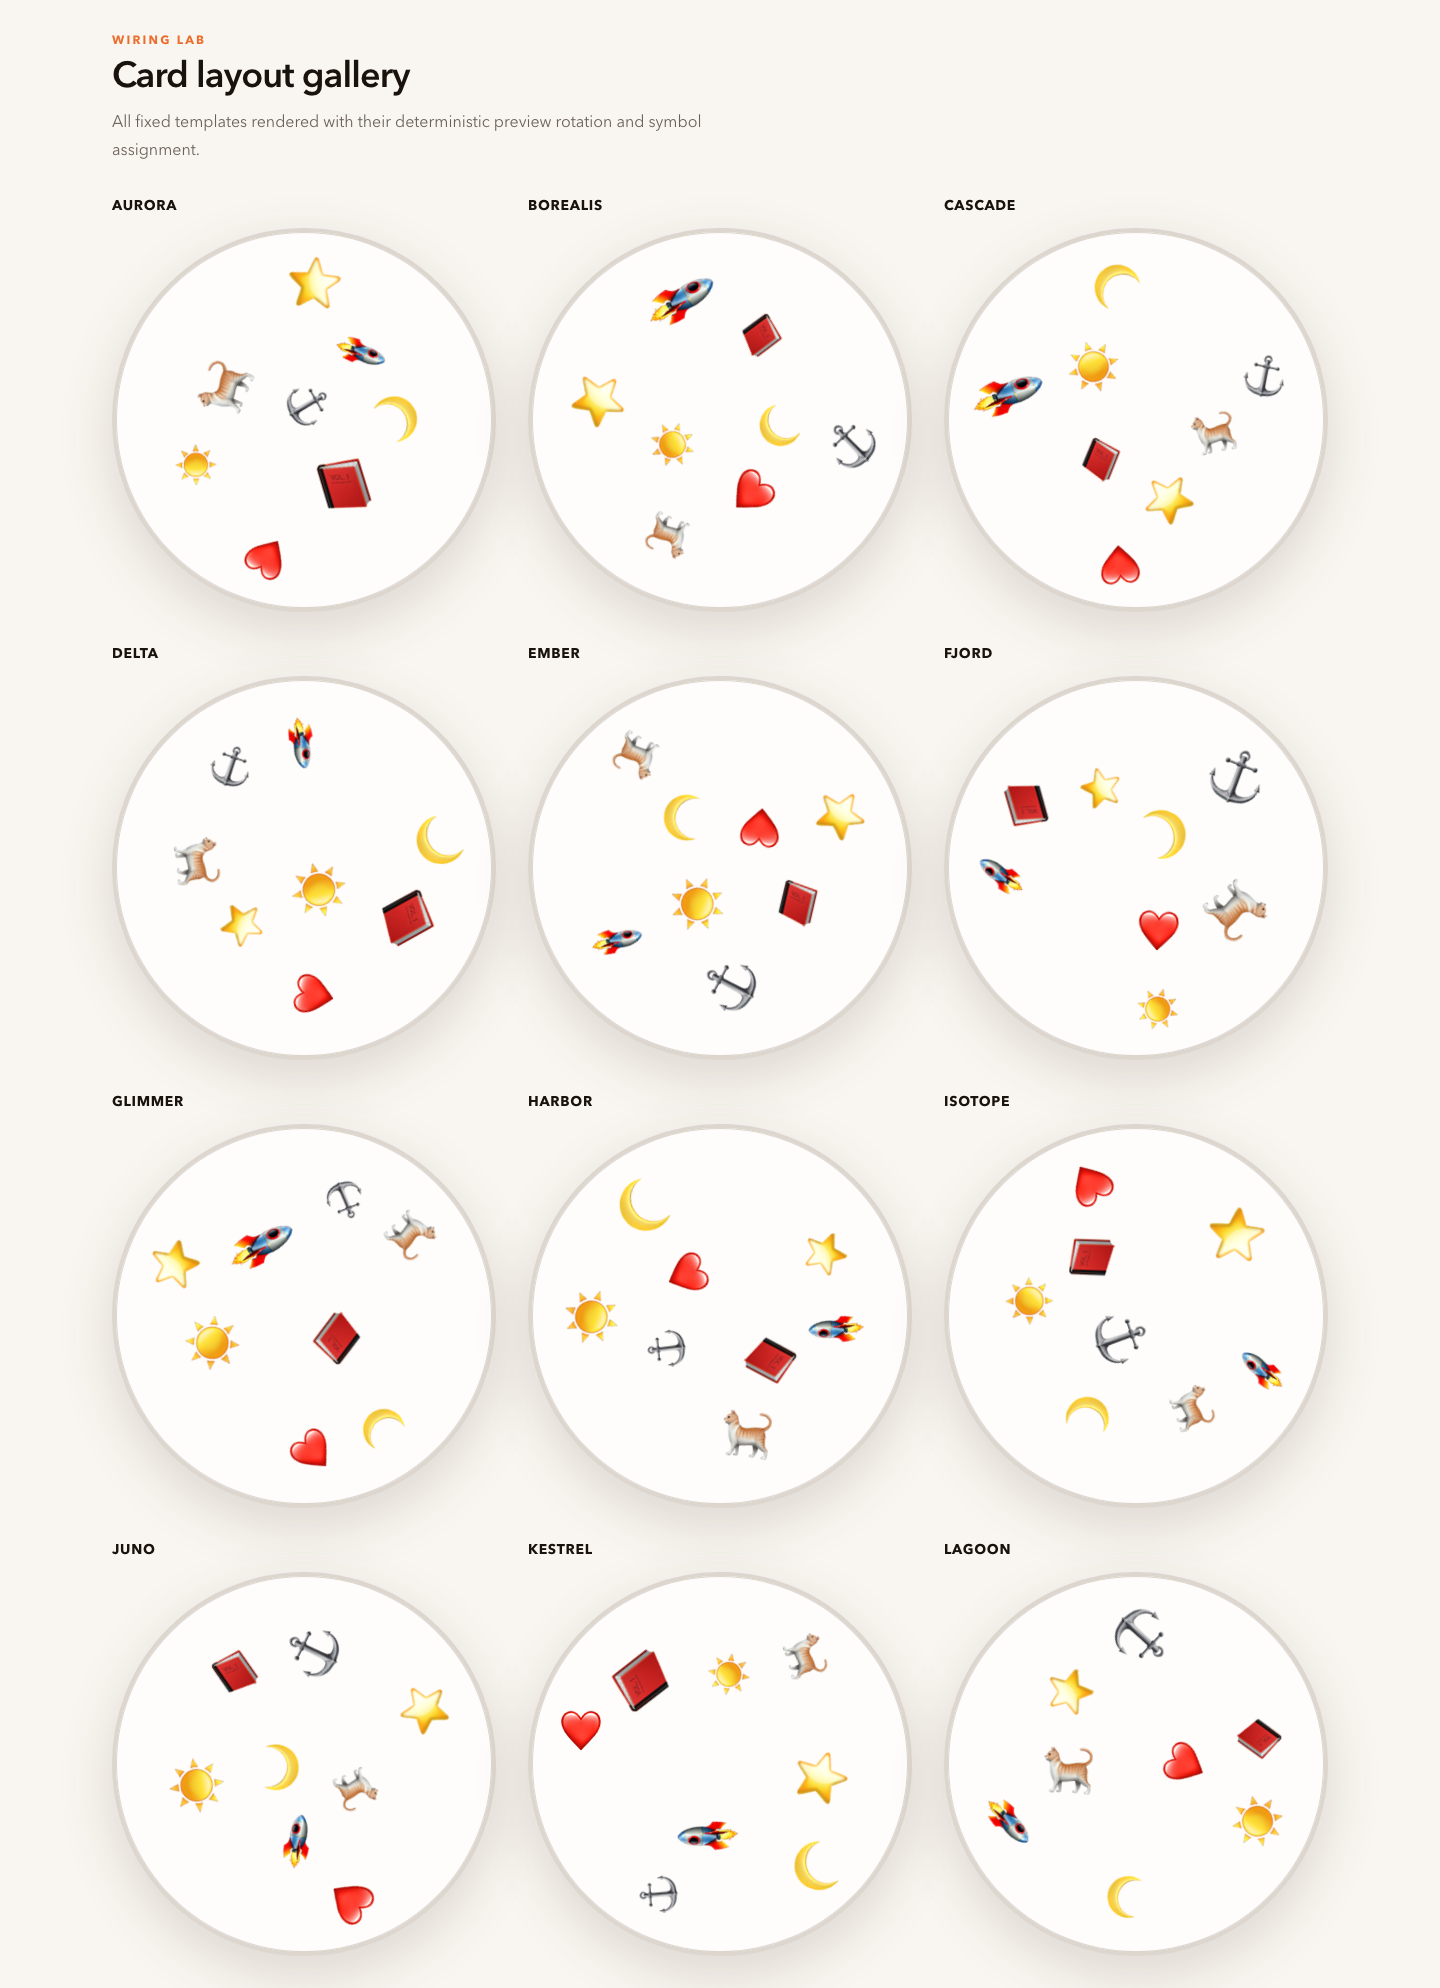
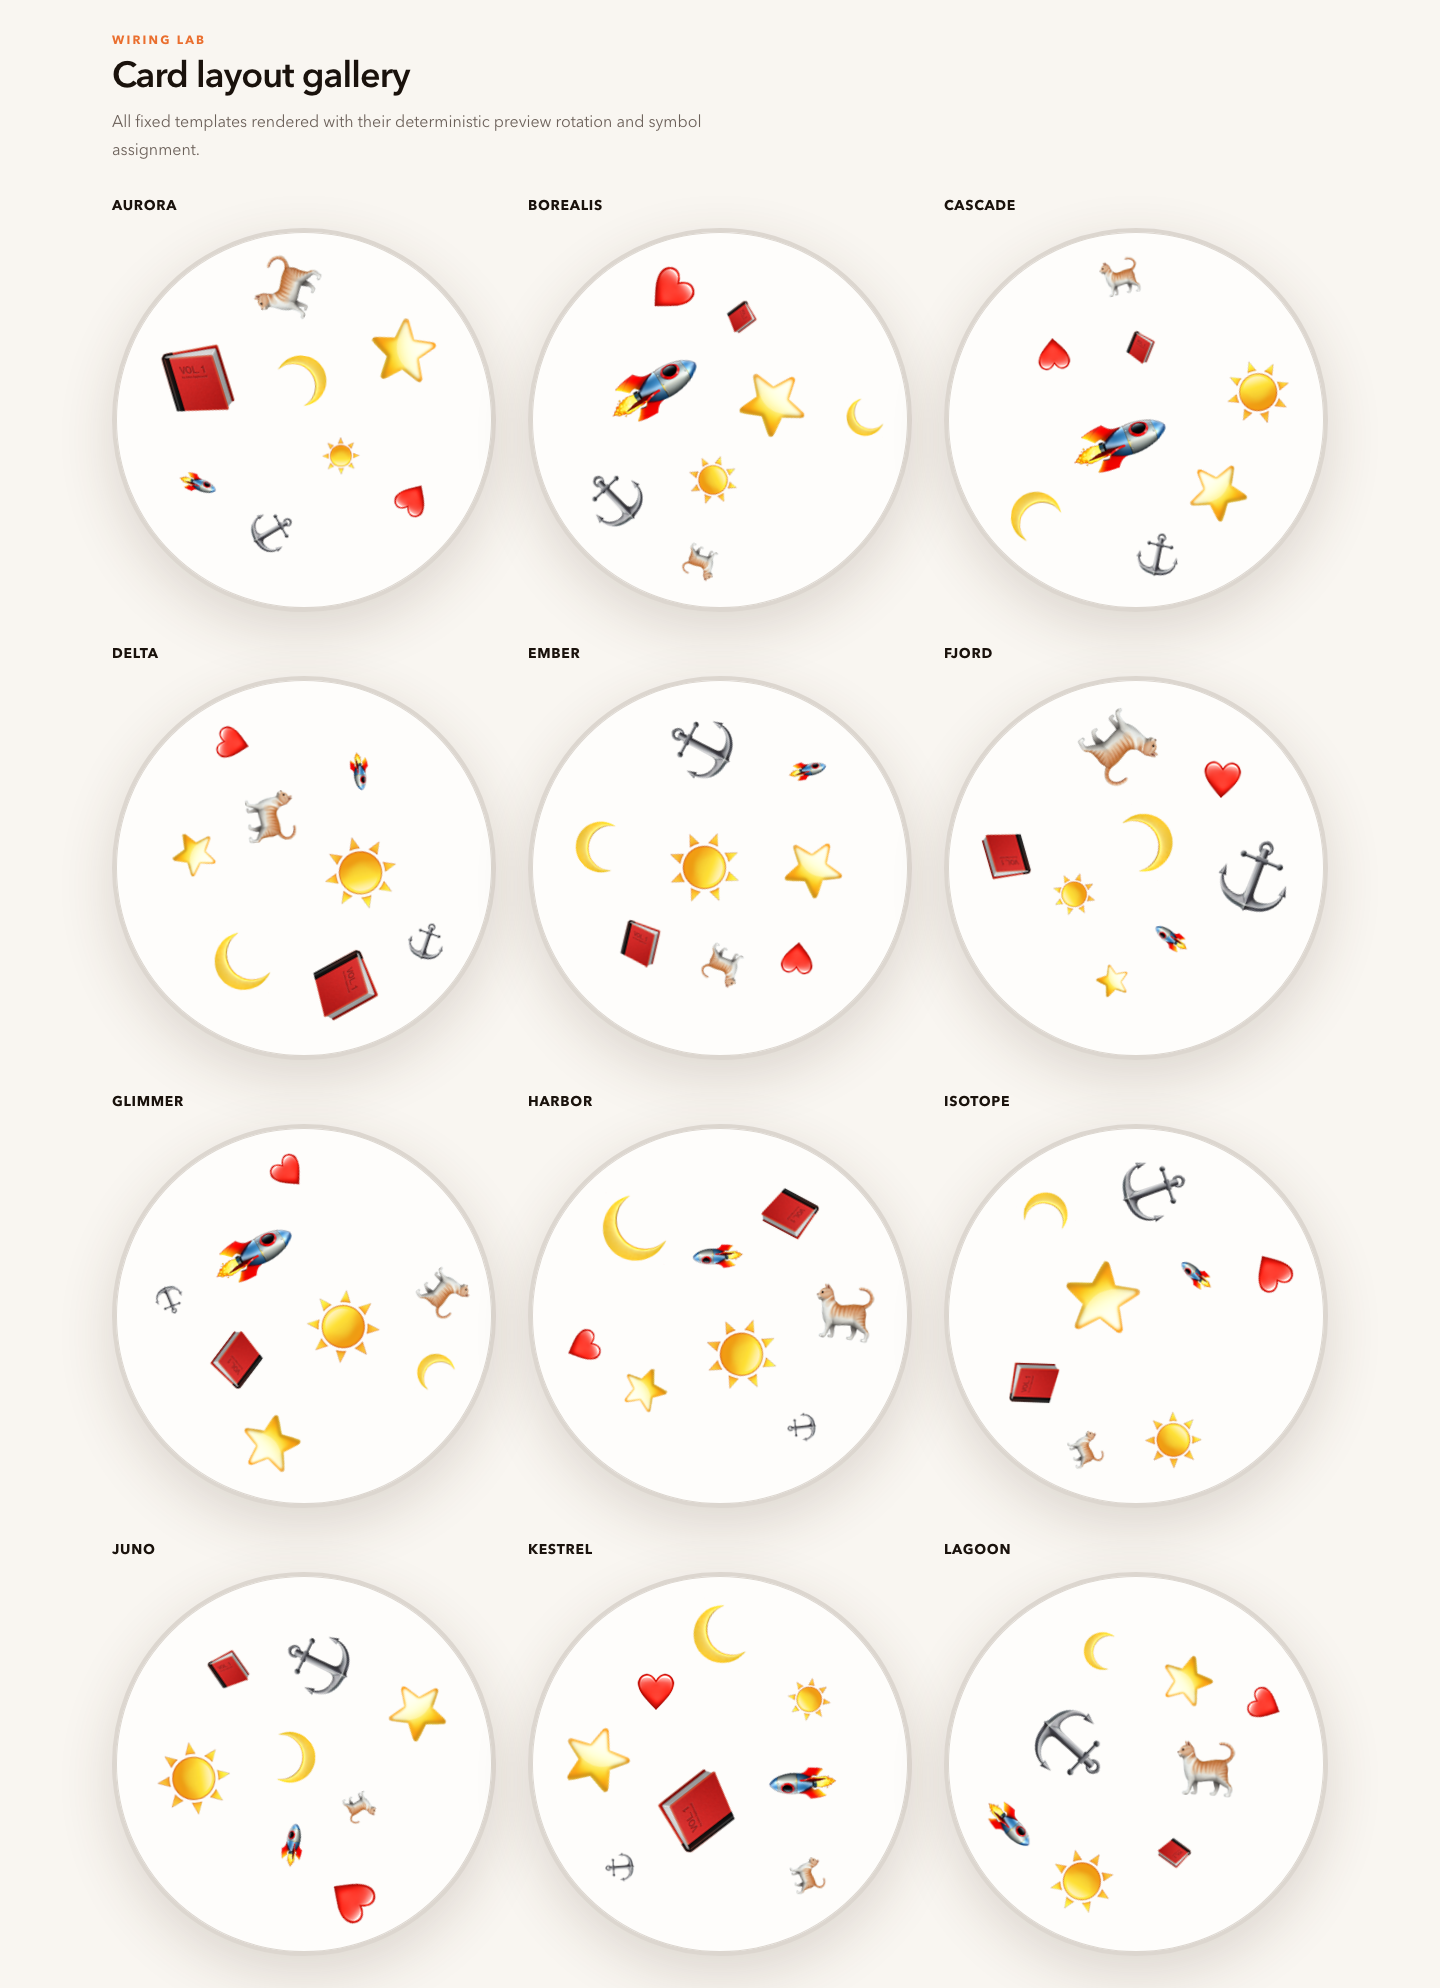
Rebalance card layout templates

diff --git a/lib/card-layout.ts b/lib/card-layout.ts
@@ -2,6 +2,8 @@ export const CARD_LAYOUT_EDGE_PADDING = 0.055
 export const CARD_LAYOUT_SLOT_GAP = 0.04
 export const MIN_CARD_DIAMETER_PX = 288
 export const MIN_SYMBOL_TARGET_PX = 48
+export const MIN_SYMBOL_SIZE = 0.076
+export const MAX_SYMBOL_SIZE = 0.2
 
 export type CardLayoutSlot = Readonly<{
   x: number
@@ -43,124 +45,124 @@ export type CardLayoutPlan = Readonly<{
  */
 export const CARD_LAYOUT_TEMPLATES: readonly CardLayoutTemplate[] = [
   template('aurora', [
-    [0.027, -0.429, 0.15, -163, 0.227],
-    [-0.444, 0.566, 0.14, -69, 0.211],
-    [0.248, 0.362, 0.129, 147, 0.194],
-    [-0.413, -0.277, 0.122, 134, 0.184],
-    [-0.046, 0.059, 0.115, -86, 0.173],
-    [0.601, 0.135, 0.113, 33, 0.17],
-    [0.56, -0.49, 0.108, 67, 0.17],
-    [-0.437, 0.131, 0.103, -82, 0.17],
+    [0.357, 0.461, 0.2, -163, 0.302],
+    [-0.627, 0.008, 0.175, -69, 0.265],
+    [-0.319, 0.618, 0.155, 147, 0.234],
+    [-0.121, 0.166, 0.135, 134, 0.204],
+    [0.477, -0.392, 0.118, -86, 0.178],
+    [-0.063, -0.259, 0.102, 33, 0.17],
+    [-0.253, -0.667, 0.088, 67, 0.17],
+    [0.664, 0.033, 0.076, -82, 0.17],
   ]),
   template('borealis', [
-    [-0.654, -0.037, 0.15, -56, 0.227],
-    [-0.338, 0.563, 0.14, -28, 0.211],
-    [0.397, -0.609, 0.129, -112, 0.194],
-    [0.024, 0.295, 0.122, -5, 0.184],
-    [0.429, 0.006, 0.115, -22, 0.173],
-    [0.142, -0.271, 0.113, 26, 0.17],
-    [0.461, 0.477, 0.108, 136, 0.17],
-    [-0.33, -0.353, 0.103, -15, 0.17],
+    [-0.269, 0.277, 0.2, -56, 0.302],
+    [0.028, -0.285, 0.175, -28, 0.265],
+    [0.193, 0.668, 0.155, -112, 0.234],
+    [0.282, 0.173, 0.135, -5, 0.204],
+    [-0.729, 0.001, 0.118, -22, 0.178],
+    [0.271, -0.71, 0.102, 26, 0.17],
+    [0.663, 0.372, 0.088, 136, 0.17],
+    [-0.461, -0.301, 0.076, -15, 0.17],
   ]),
   template('cascade', [
-    [-0.54, -0.449, 0.15, 52, 0.227],
-    [-0.055, -0.35, 0.14, 13, 0.211],
-    [-0.06, 0.462, 0.129, -12, 0.194],
-    [0.274, -0.675, 0.122, -144, 0.184],
-    [0.695, 0.153, 0.115, 42, 0.173],
-    [0.318, 0.28, 0.113, 19, 0.17],
-    [-0.452, 0.611, 0.108, -155, 0.17],
-    [-0.281, 0.1, 0.103, 52, 0.17],
+    [-0.153, 0.075, 0.2, 52, 0.302],
+    [0.629, 0.218, 0.175, 13, 0.265],
+    [0.19, 0.558, 0.155, -12, 0.234],
+    [-0.708, 0.162, 0.135, -144, 0.204],
+    [-0.263, 0.687, 0.118, 42, 0.178],
+    [0.303, -0.697, 0.102, 19, 0.17],
+    [-0.199, -0.53, 0.088, -155, 0.17],
+    [0.202, -0.315, 0.076, 52, 0.17],
   ]),
   template('delta', [
-    [0.086, 0.088, 0.15, 159, 0.227],
-    [0.563, 0.208, 0.14, 54, 0.211],
-    [0.686, -0.235, 0.129, 89, 0.194],
-    [-0.578, 0.037, 0.122, 77, 0.184],
-    [-0.295, 0.336, 0.115, 106, 0.173],
-    [-0.454, -0.471, 0.113, 12, 0.17],
-    [0.151, 0.663, 0.108, -86, 0.17],
-    [-0.105, -0.663, 0.103, 119, 0.17],
+    [0.293, -0.029, 0.2, 159, 0.302],
+    [0.264, 0.611, 0.175, 54, 0.265],
+    [-0.284, 0.532, 0.155, 89, 0.234],
+    [-0.225, -0.248, 0.135, 77, 0.204],
+    [-0.589, -0.005, 0.118, 106, 0.178],
+    [0.691, 0.316, 0.102, 12, 0.17],
+    [-0.448, -0.614, 0.088, -86, 0.17],
+    [0.227, -0.553, 0.076, 119, 0.17],
   ]),
   template('ember', [
-    [0.056, -0.224, 0.15, -92, 0.227],
-    [-0.309, -0.555, 0.14, 95, 0.211],
-    [-0.478, 0.499, 0.129, -170, 0.194],
-    [0.281, 0.183, 0.122, -62, 0.184],
-    [-0.457, -0.025, 0.115, 170, 0.173],
-    [0.636, 0.385, 0.113, 5, 0.17],
-    [-0.113, 0.292, 0.108, -17, 0.17],
-    [0.354, -0.583, 0.103, -173, 0.17],
+    [0.097, -0.028, 0.2, -92, 0.302],
+    [0.319, 0.553, 0.175, 95, 0.265],
+    [-0.458, 0.18, 0.155, -170, 0.234],
+    [0.647, -0.139, 0.135, -62, 0.204],
+    [0.233, -0.546, 0.118, 170, 0.178],
+    [-0.222, -0.47, 0.102, 5, 0.17],
+    [-0.564, -0.271, 0.088, -17, 0.17],
+    [-0.222, 0.652, 0.076, -173, 0.17],
   ]),
   template('fjord', [
-    [0.475, -0.518, 0.15, 15, 0.227],
-    [0.552, 0.159, 0.14, 136, 0.211],
-    [0.135, -0.186, 0.129, -70, 0.194],
-    [-0.624, -0.291, 0.122, 158, 0.184],
-    [0.205, 0.729, 0.115, -125, 0.173],
-    [0.154, 0.335, 0.113, -2, 0.17],
-    [-0.229, -0.395, 0.108, 52, 0.17],
-    [-0.699, 0.111, 0.103, -106, 0.17],
+    [0.628, 0.002, 0.2, 15, 0.302],
+    [-0.161, -0.646, 0.175, 136, 0.265],
+    [0.052, -0.134, 0.155, -70, 0.234],
+    [-0.699, -0.016, 0.135, 158, 0.204],
+    [-0.303, 0.171, 0.118, -125, 0.178],
+    [0.409, -0.505, 0.102, -2, 0.17],
+    [-0.062, 0.615, 0.088, 52, 0.17],
+    [0.234, 0.353, 0.076, -106, 0.17],
   ]),
   template('glimmer', [
-    [0.413, -0.289, 0.15, 123, 0.227],
-    [0.325, 0.28, 0.14, 177, 0.211],
-    [0.733, 0.066, 0.129, 31, 0.194],
-    [-0.212, -0.041, 0.122, 20, 0.184],
-    [-0.413, 0.586, 0.115, -61, 0.173],
-    [-0.578, -0.436, 0.113, -9, 0.17],
-    [-0.268, -0.681, 0.108, 121, 0.17],
-    [-0.022, 0.669, 0.103, -39, 0.17],
+    [-0.234, -0.005, 0.2, 123, 0.302],
+    [0.352, 0.215, 0.175, 177, 0.265],
+    [-0.035, -0.695, 0.155, 31, 0.234],
+    [0.263, -0.301, 0.135, 20, 0.204],
+    [-0.67, 0.341, 0.118, -61, 0.178],
+    [-0.756, -0.073, 0.102, -9, 0.17],
+    [0.294, 0.701, 0.088, 121, 0.17],
+    [0.709, -0.12, 0.076, -39, 0.17],
   ]),
   template('harbor', [
-    [0.385, -0.588, 0.15, -128, 0.227],
-    [0.719, -0.022, 0.14, -141, 0.211],
-    [-0.615, -0.236, 0.129, 131, 0.194],
-    [-0.327, 0.088, 0.122, -119, 0.184],
-    [-0.027, 0.655, 0.115, 3, 0.173],
-    [-0.391, 0.495, 0.113, -16, 0.17],
-    [0.284, -0.043, 0.108, -170, 0.17],
-    [0.003, -0.321, 0.103, 27, 0.17],
+    [-0.216, -0.026, 0.2, -128, 0.302],
+    [0.649, -0.145, 0.175, -141, 0.265],
+    [-0.352, 0.55, 0.155, 131, 0.234],
+    [0.278, 0.599, 0.135, -119, 0.204],
+    [-0.108, -0.551, 0.118, 3, 0.178],
+    [0.274, 0.17, 0.102, -16, 0.17],
+    [0.263, -0.71, 0.088, -170, 0.17],
+    [-0.738, 0.05, 0.076, 27, 0.17],
   ]),
   template('isotope', [
-    [-0.59, 0.344, 0.15, -21, 0.227],
-    [0.113, -0.105, 0.14, -100, 0.211],
-    [0.562, 0.16, 0.129, -127, 0.194],
-    [0.168, 0.341, 0.122, 101, 0.184],
-    [0.325, -0.488, 0.115, 67, 0.173],
-    [0.134, 0.748, 0.113, -23, 0.17],
-    [-0.208, -0.531, 0.108, -101, 0.17],
-    [-0.629, -0.392, 0.103, 94, 0.17],
+    [0.17, 0.123, 0.2, -21, 0.302],
+    [-0.172, 0.643, 0.175, -100, 0.265],
+    [-0.077, -0.691, 0.155, -127, 0.234],
+    [0.569, -0.272, 0.135, 101, 0.204],
+    [0.38, 0.616, 0.118, 67, 0.178],
+    [-0.749, 0.127, 0.102, -23, 0.17],
+    [0.381, -0.658, 0.088, -101, 0.17],
+    [-0.356, 0.164, 0.076, 94, 0.17],
   ]),
   template('juno', [
-    [-0.599, 0.065, 0.15, 87, 0.227],
-    [0.114, -0.583, 0.14, -59, 0.211],
-    [0.669, -0.228, 0.129, -27, 0.194],
-    [-0.137, 0.014, 0.122, -38, 0.184],
-    [0.169, 0.738, 0.115, 131, 0.173],
-    [-0.316, -0.5, 0.113, -30, 0.17],
-    [-0.065, 0.416, 0.108, -32, 0.17],
-    [0.26, 0.146, 0.103, 161, 0.17],
+    [-0.615, 0.027, 0.2, 87, 0.302],
+    [0.145, -0.518, 0.175, -59, 0.265],
+    [0.633, -0.216, 0.155, -27, 0.234],
+    [-0.056, -0.025, 0.135, -38, 0.204],
+    [0.177, 0.73, 0.118, 131, 0.178],
+    [-0.348, -0.523, 0.102, -30, 0.17],
+    [-0.093, 0.431, 0.088, -32, 0.17],
+    [0.272, 0.252, 0.076, 161, 0.17],
   ]),
   template('kestrel', [
-    [-0.594, -0.127, 0.15, -165, 0.227],
-    [0.468, -0.257, 0.14, -18, 0.211],
-    [0.725, 0.125, 0.129, 73, 0.194],
-    [0.181, 0.333, 0.122, -176, 0.184],
-    [-0.245, -0.418, 0.115, -163, 0.173],
-    [-0.692, 0.314, 0.113, -37, 0.17],
-    [0.011, -0.722, 0.108, 37, 0.17],
-    [0.169, 0.741, 0.103, -131, 0.17],
+    [0.064, 0.235, 0.2, -165, 0.302],
+    [-0.538, 0.392, 0.175, -18, 0.265],
+    [-0.426, -0.55, 0.155, 73, 0.234],
+    [0.418, -0.202, 0.135, -176, 0.204],
+    [0.174, -0.565, 0.118, -163, 0.178],
+    [-0.498, -0.096, 0.102, -37, 0.17],
+    [0.727, 0.198, 0.088, 37, 0.17],
+    [-0.086, 0.755, 0.076, -131, 0.17],
   ]),
   template('lagoon', [
-    [0.105, 0.685, 0.15, -57, 0.227],
-    [-0.697, -0.18, 0.14, 23, 0.211],
-    [0.346, -0.108, 0.129, 174, 0.194],
-    [0.409, 0.321, 0.122, 44, 0.184],
-    [0.629, -0.421, 0.115, -99, 0.173],
-    [-0.066, -0.69, 0.113, -44, 0.17],
-    [-0.274, 0.039, 0.108, 106, 0.17],
-    [-0.606, 0.254, 0.103, -64, 0.17],
+    [0.379, 0.049, 0.2, -57, 0.302],
+    [0.164, -0.645, 0.175, 23, 0.265],
+    [-0.368, 0.027, 0.155, 174, 0.234],
+    [-0.195, 0.49, 0.135, 44, 0.204],
+    [0.615, -0.433, 0.118, -99, 0.178],
+    [0.288, 0.568, 0.102, -44, 0.17],
+    [-0.629, 0.427, 0.088, 106, 0.17],
+    [-0.272, -0.422, 0.076, -64, 0.17],
   ]),
 ]
 
@@ -229,7 +231,11 @@ export function validateCardLayoutTemplate(
       )
     }
 
-    if (slot.size <= 0 || slot.collisionRadius < slot.size * 1.5) {
+    if (
+      slot.size < MIN_SYMBOL_SIZE ||
+      slot.size > MAX_SYMBOL_SIZE ||
+      slot.collisionRadius < slot.size * 1.5
+    ) {
       errors.push(`${layoutTemplate.id} slot ${index} has invalid sizing.`)
     }
 

diff --git a/components/game-card.tsx b/components/game-card.tsx
@@ -73,7 +73,7 @@ export function GameCard({
             disabled={disabled}
             onClick={() => onSelectSymbol(symbolId)}
             className={cn(
-              'focus-visible:ring-ring/70 absolute inline-flex [height:max(3rem,var(--symbol-target-size))] [width:max(3rem,var(--symbol-target-size))] items-center justify-center overflow-visible rounded-full border-0 p-0 [font-size:clamp(2rem,var(--symbol-font-size),5rem)] leading-none focus-visible:z-10 focus-visible:ring-4 focus-visible:outline-none disabled:cursor-wait',
+              'focus-visible:ring-ring/70 absolute inline-flex [height:max(3rem,var(--symbol-target-size))] [width:max(3rem,var(--symbol-target-size))] items-center justify-center overflow-visible rounded-full border-0 p-0 [font-size:clamp(1.5rem,var(--symbol-font-size),5rem)] leading-none focus-visible:z-10 focus-visible:ring-4 focus-visible:outline-none disabled:cursor-wait',
               isIncorrect
                 ? 'z-[1] border-2 border-red-700/70 bg-red-100/80 ring-4 ring-red-500/50'
                 : isSelected

diff --git a/lib/card-layout.test.ts b/lib/card-layout.test.ts
@@ -2,6 +2,8 @@ import { describe, expect, it } from 'vitest'
 
 import {
   CARD_LAYOUT_TEMPLATES,
+  MAX_SYMBOL_SIZE,
+  MIN_SYMBOL_SIZE,
   getCardLayoutPreviewPlan,
   getPairLayoutPlans,
   rotateCardLayoutSlot,
@@ -45,6 +47,15 @@ describe('card layout templates', () => {
     for (const layoutTemplate of CARD_LAYOUT_TEMPLATES) {
       expect(validateCardLayoutTemplate(layoutTemplate)).toEqual([])
     }
+  })
+
+  it('uses the full reviewed symbol-size range', () => {
+    const sizes = CARD_LAYOUT_TEMPLATES.flatMap(({ slots }) =>
+      slots.map(({ size }) => size),
+    )
+
+    expect(Math.min(...sizes)).toBe(MIN_SYMBOL_SIZE)
+    expect(Math.max(...sizes)).toBe(MAX_SYMBOL_SIZE)
   })
 
   it('preserves every layout invariant through whole-template rotation', () => {

diff --git a/e2e/card-layout-assertions.ts b/e2e/card-layout-assertions.ts
@@ -18,11 +18,11 @@ export async function expectValidCardGeometry(cards: Locator) {
         Number.parseFloat(getComputedStyle(button).fontSize),
       )
 
-      if (Math.max(...fontSizes) < 48) {
+      if (Math.max(...fontSizes) < 55) {
         issues.push(`card ${cardIndex} does not contain a large symbol`)
       }
 
-      if (Math.max(...fontSizes) - Math.min(...fontSizes) < 10) {
+      if (Math.max(...fontSizes) - Math.min(...fontSizes) < 25) {
         issues.push(`card ${cardIndex} does not vary symbol sizes`)
       }
 

diff --git a/docs/architecture/card-layout-templates.md b/docs/architecture/card-layout-templates.md
@@ -7,6 +7,12 @@ collision radii in a normalized card whose center is `(0, 0)` and radius is
 diameter; changing that responsive floor requires updating and revalidating the
 target geometry.
 
+Visible symbol sizes deliberately span `0.076` through `0.2` of the card
+diameter so every layout has a clear hierarchy instead of eight similarly sized
+glyphs. The renderer permits that smallest authored value to render at roughly
+24px on the minimum card, while collision radii remain independently large
+enough to provide a 48px minimum tap target.
+
 The templates are generated offline with:
 
 ```bash
